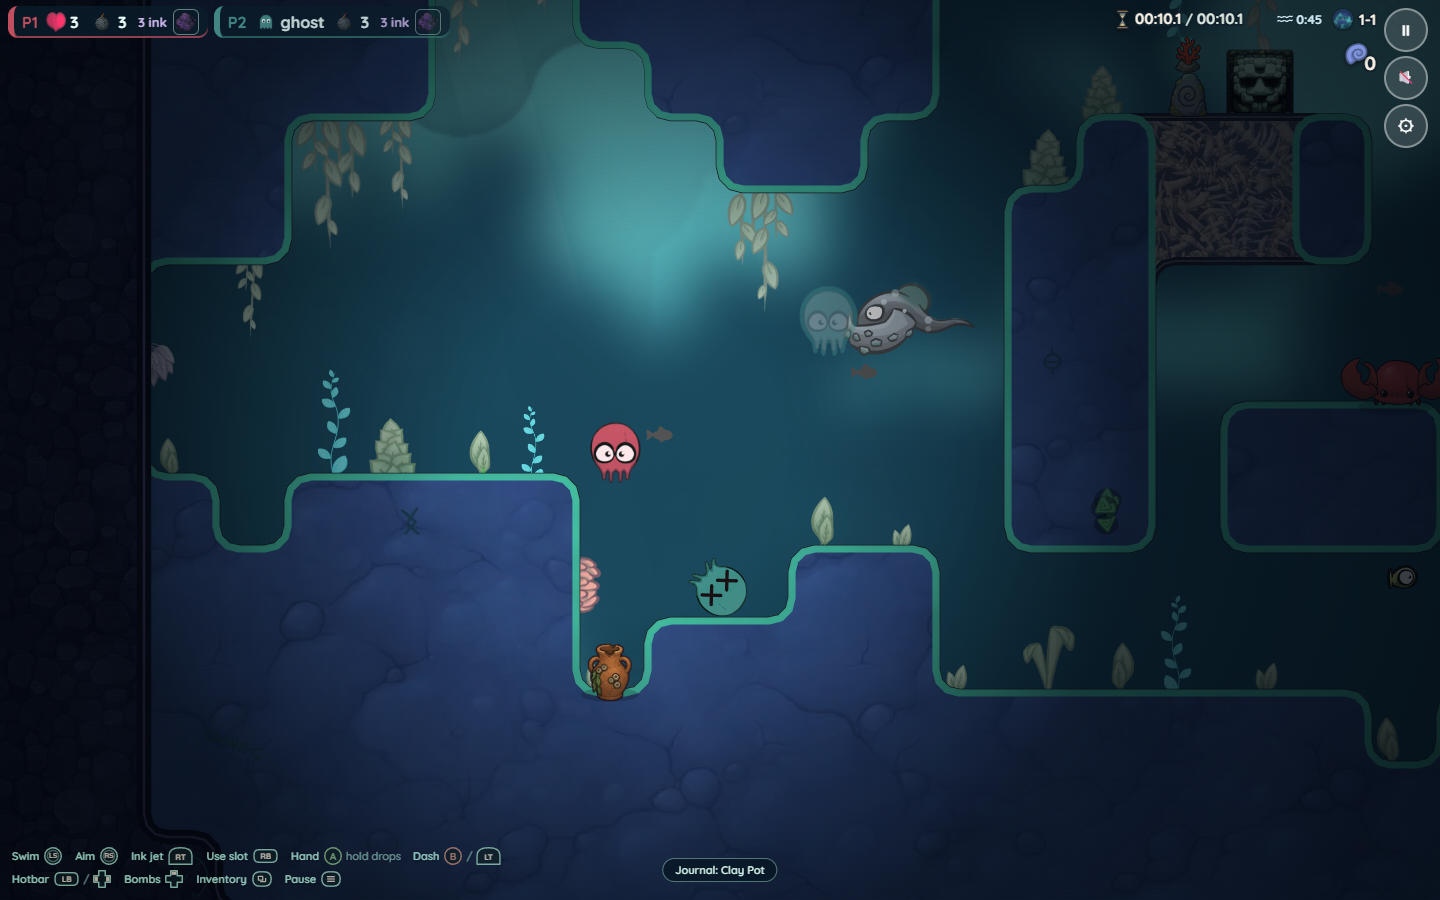
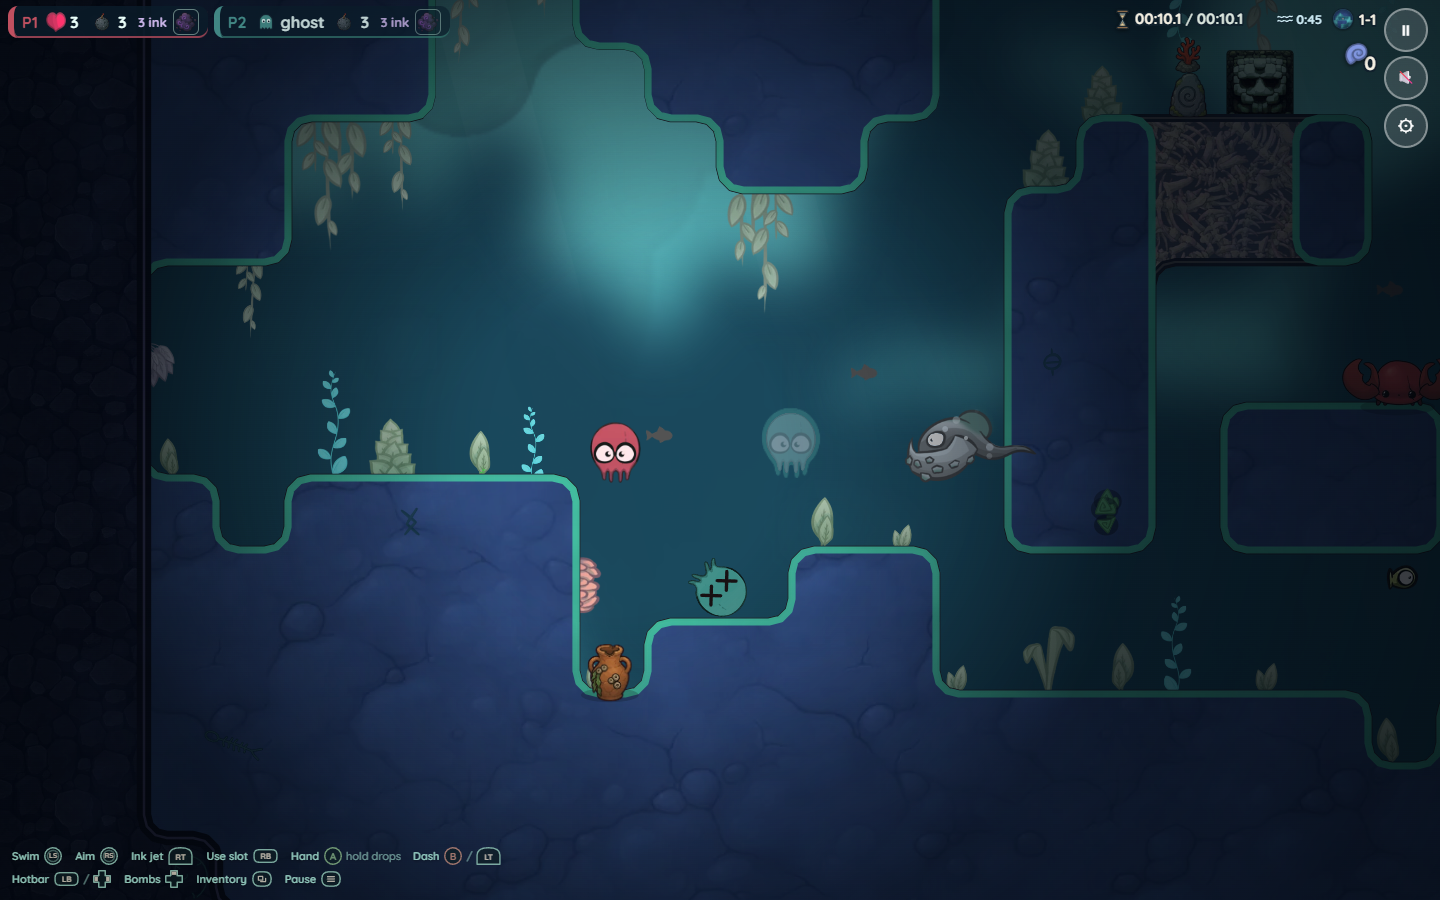
Local co-op Phase 2: ghosts (rise, float through rock, blow, charged freeze, revive), frost tint, ghost HUD mark; boulder hits every octopus, held octopus ungrabbable, no red flash on join

diff --git a/octomancer-web/OWNERS.md b/octomancer-web/OWNERS.md
@@ -120,3 +120,4 @@ Overlaps: Unified creature rules owns the damage/immunity table; Actions tuning 
 - 2026-10-17, Controller Phase 2A, every screen on a pad (branch `worktree-agent-a0f7d91e03d72aaaf`): a `padMenu()` entry may now give `pad(action)` (gets every pad action first, true = used; B it leaves falls through to the entry's `back`) and `focus()` (the ring goes on that element, re-synced every frame): the journal (`journalScreen.pad / padFocus`) and the looks picker (`looksPicker.pad / padFocus`) use it. gamepad.js sends `x` / `y` in menus too; glyphs.js PAD_MAP gained `tabprev tabnext menux menuy` (LB RB X Y). **Journal:** LB / RB chapters, d-pad / stick over the grid (rows of 3; past a side the page turns, landing on the same row), Carried page: A picks a hotbar slot up, A on another swaps, B cancels, Y holds the slot, X opens its journal page and B comes back; B closes; a legend of glyphs in the book's foot replaces the mouse arrows and Close in pad mode (`.octo-bk-padhint`, `glyph-dom.js padLegend`); the Carried "How" line names pad buttons (carried.js `state.pad`). On the parchment the ring is the same #d2fbe6 band framed in dark ink (play.css). **Looks:** d-pad browses, A wears, B closes. **Settings:** `settingsPanel.back()` (B, Esc): an open reset confirm closes first; the confirm focuses "Keep my progress"; the Controller help lines lead with drawn pad glyphs (settings.js `glyphs`, follow the pad make); Journal / Looks opened from Settings return to Settings when closed (main.js `fromSettings`). menu-nav: the sideways score is now the gap between boxes (overlap = straight), so the seed's Random button is reachable; the ring follows a focus the menu moved itself. Not reachable on a pad, on purpose: the seed text box (Random clears it). `inventory-ui.js` is unused by the game (only hotbar.test.js). Shop: A buys, nothing needs a click; ware / price prompts are 2B's. Tests: `tests/gamepad.test.js` (menu-nav own-selection, overlap, moved focus), `node tests/pad-ui-cdp.js <baseUrl>` (journal, reorder, settings, confirm, mirror, talk, shop, end screens), frames `night/padui-*.png`.
 - 2026-10-17, Controller Phase 2B, text in the world (CONTROLLER-PLAN.md; branch `worktree-agent-a9cf99c0a5f0874a3`): no floating guidance box is left. **Rich text** `play/js/rich.js`: sign words name controls with tokens `{hand}` (the scheme's first glyph), `{dash+}` (all of them), `{key:J}` (a literal key); `plainText` / `glyphLabels` for tests and toasts, `layoutRich` / `drawRichLayout` to wrap and draw. glyphs.js gained a `'desktop'` scheme (signs: F, LMB, RMB, Space first, keyboard and mouse as one set, so a sign never flickers between F and MMB), `signScheme(mode)`, `keyGlyph(k)` and a `look` argument on `drawGlyph` (`LOOK_WOOD` burnt into a sign, `LOOK_PAINT` ochre and charcoal). **Signs** `signs.js` (pure: `signText(p, scheme)` desktop / `pad` / touch, `pickPrompt`, `placeSigns` gives an unplaced prompt a post on the floor, else a board hung from the rock, else an anchor; `CONTROL_ROWS`) and `signs-draw.js` (`drawSigns`: a far sign is the old plank, the near one unfolds into a cached wooden board with the whole text; `sign` / `hang: [tx, ty, drop]` / `anchor: [x, y]`; `drawAnchorTag` for prompts on an object). Every level's `prompts` are drawn as signs (main.js `openSign`, `signView`, `promptHidden`); `ui.setPrompt` is never shown now. **Painting** `cave-paint.js`: tutorial.json `painting: {rect, cols}` is painted on room 1's back wall (render.js new `backWallDraw` hook, before plants and rock), cached per scheme; `drawControlCard` paints the journal cards. **Journal**: a `controls` tab (journal.json) of `CONTROL_ENTRIES` (journal.js, always found, not saved, out of completion); journal-art `setArtScheme` repaints them on modechange (no journal-ui.js change; its TAB_COLORS has no `controls` colour, so the bookmark is the default grey: 2A may want to give it one; play.css hides that bookmark on screens 520 px tall or less, where only seven 40 px tabs fit, its pages still turn to). **Replaced**: the tutorial prompt banners (signs), the hub welcome (a board hung over the start), the hub "Sealed by kelp" banner (dropped: the seal's plank says it), the first-launch offer card (dropped: the welcome board points at the ring), the grotto banner (sign), the altar banner (its sign's board), the mirror and the lit-bomb banners and the "Dash to break free!" and "press F to start a run" toasts (prompts on the object), the rune toast names the scheme's use glyph. Hooks `__octo.signs()` (scheme, open sign text + glyphs, list, object tags, painting rows, `popup`), `__octo.tutorial().prompt` reads the open sign. Tests `tests/signs.test.js` (page), `node tests/signs-cdp.js <baseUrl>`, frames `night/signs-*.png`.
 - 2026-10-17, Local co-op Phase 1 (MULTIPLAYER-PLAN.md; branch `worktree-agent-a770265f9e4e38478`): new `play/js/players.js` (roster of 4, `joinDevice / removePlayer` with per-device records, `PLAYER_COLOURS` red / teal / ochre / violet, `pickTarget(list, x, y)` = the octopus a creature goes for (one octopus: that one, exactly as before; else the nearest live one), `leadOf`, `octoList`, `cameraFrame` (shared camera, ZOOM_CAP 1.6), `leaderIndex`, `pullPos` / PULL_S 3) and `play/js/coop-ui.js` (pause-menu player rows with Remove and the Add line, per-player HUD strips; solo shows none). **Everyone with a per-step `update(..., octo, ...)`: it now gets ONE octopus in solo and an ARRAY in co-op** (enemies, npcs, shopkeeper, hazards, creatures, loot, embed, pickups, props, bomb, juice drops, spell-fx all take both via `octoList(arg, ONE)`); a new system should do the same: AI targets `pickTarget(octos, x, y)` per entity, contact checks loop over all, a hold (tentacle, splat) remembers WHICH octopus; events about one octopus carry `who` (index in the array). main.js: `usePlayer(p)` swaps a player's record (octo, hand, inkJet, lastAim, ragdoll, prevHearts, run.hotbar / items / juice) into the old single-octopus variables, so per-player code keeps reading `octo`; `worldOctos()` is what the systems get; `withP(nearP(x, y), fn)` runs a one-octopus thing (quest, shop, pool, rune, altar) for the nearest player; outside the step `octo` is the focus (first alive, else the last to die). gamepad.js: every pad but the primary one is read on its own (`snapshotOf(key)`, hooks `primaryKey / isPlayer / onFree / onOtherGone / beforeMode`); in co-op there is no primary pad. octopus-draw.js: `o.tint` (a body colour) draws through `skin-draw.js tintSheet` (one 4.3 MB sheet per colour in play, `dropTints`, `tintStats`); `setDrawColours` for the arm and gibs. render.js options `follow`, `zoom`, `octos`, `eachOcto`; camera.js `updateCamera(..., zoom)`. tutorial.js `tutorialRooms` takes `s.pts` (goals count any player). Daniel's answers applied: bombs and thrown things hurt teammates (cause `thrown`), the grotto spring refills everyone, past the zoom cap the camera follows player 1 (else the leader rule). Dead players are out (limp body) until the next level, which revives them with 2 hearts; game over when all are dead. Hooks `__octo.pads([...])`, `coop()`, `join(dev)`, `removePlayer(slot)`, `killPlayer`, `teleportPlayer`, `setPlayerHearts`, `pressHandOf`. Tests `tests/coop.test.js` (page), `node tests/coop-cdp.js <baseUrl>`, frames `night/coop-*.png`.
+- 2026-10-17, Local co-op Phase 2, ghosts (MULTIPLAYER-PLAN.md decisions 5 and 6; branch `worktree-agent-ac8146609c8442400`): new `play/js/ghost.js` (pure: `GHOST` timings, `createGhost / stepGhost / freezeDone / chargeOf / blowFactor / pickFreeze / clampGhost`) and `play/js/ghost-draw.js`. **The ghost is NOT an octopus in the world list**: the dead body stays where it was (ragdoll, knocked about as before, `octo.dead` true for every existing check) and the ghost is a separate record on the player (`p.ghost` in main.js), so nothing hurts, grabs, chases, frames or lets it trigger anything for free. It rises `GHOST.riseS` 1 s after the death (co-op only; solo = the death screen), floats at 4.8 u/s through rock, kept inside the shared camera's view and the level (`ghostBounds`). Blow = the jet button (RT / click / J): `blowFactor` cone 2.8 tiles, about 35 degrees, cooldown 0.6 s; nudges props (a pot sitting on its floor is released first; clams on walls, stuck bombs and carried things stay), corpses, dead bodies and enemies (`enemies.nudge`: a decaying drift `e.gvx/gvy`, no stun; anchored kinds never). Freeze = the use button (RB / right click / C) held 2.5 s, released: `pickFreeze` nearest enemy within 4 tiles (not the Beholder; creatures.js clam/tentacle are not frozen) gets `e.frozen` 3 s (`enemies.freeze`: no AI, no contact damage, hits still land), cooldown 10 s only when something froze; early release cancels. Revive: the next level and the rest grotto's arrival (existing REVIVE_HEARTS path), and a ghost floating into the grotto spring (`reviveGhost`, full hearts). Look: `octopus-draw.js drawOctopusGhost` (the octopus drawn into the composite buffer, washed pale with a 22% hint of the player colour, plus a rim of the silhouette grown 1.16x in the player colour; alpha 0.55); frost in `enemy-draw.js` is one constant ctx.filter (pale blue-grey) plus six code-drawn motes. HUD strip: a code-drawn ghost mark in the player colour replaces the heart; pause row says "ghost". Phase 1 holes fixed: `prepareTint` at join + `drawBaked` skips a tinted octopus until its sheet is ready (no red flash); hazards.js `d.hit` is a bitmask per octopus index (a boulder hits every octopus under it, once each; after a splat the others are hit, not splatted); creatures.js a tentacle cannot grab an octopus already held (co-op only, `octos.length > 1`, so solo is untouched). Hooks `coop().players[i].ghost`, `teleportGhost(slot, x, y)`, `enemies()[i].frozen`. Tests `tests/ghost.test.js` (page), `node tests/ghost-cdp.js <port>`, frames `night/ghost-*.png`.

diff --git a/octomancer-web/MULTIPLAYER-PLAN.md b/octomancer-web/MULTIPLAYER-PLAN.md
@@ -39,7 +39,7 @@ Daniel's brief: any plugged-in controller can play solo. Players are added and r
 - Game over when all are dead. Death is a plain "limp and wait" until phase 2 brings ghosts: a dead player's octopus ragdolls and they are out until the next level, where they revive.
 - Tests: `tests/coop.test.js` for roster/restore logic; `tests/coop-cdp.js` with two stubbed pads plus keyboard: join in pause, both move, one dies, next level revives, leave and re-add restores hearts.
 
-**Phase 2: ghosts (one owner, after phase 1).** Ghost float, blow, charged freeze, the charge ring, revive at next level, ghost does not count for the camera. Art: a translucent pale octopus with the player's colour in the eyes, drawn in code from the existing sprite (tint + alpha), no new images.
+**Phase 2: ghosts (one owner, after phase 1). Built 2026-10-17, see OWNERS.md.** Ghost float, blow, charged freeze, the charge ring, revive at next level, ghost does not count for the camera. Art: a translucent pale octopus with the player's colour in the eyes, drawn in code from the existing sprite (tint + alpha), no new images.
 
 **Phase 3: options.** True split-screen toggle, per-player skins at the mirror, enemy scaling, friendly-fire setting.
 
